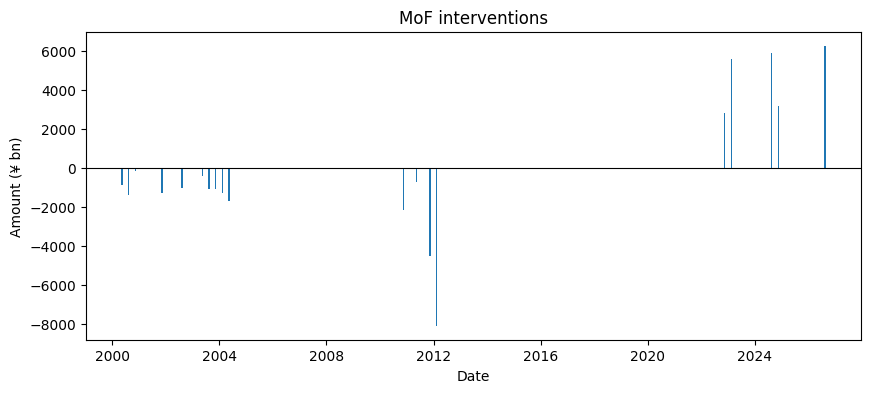
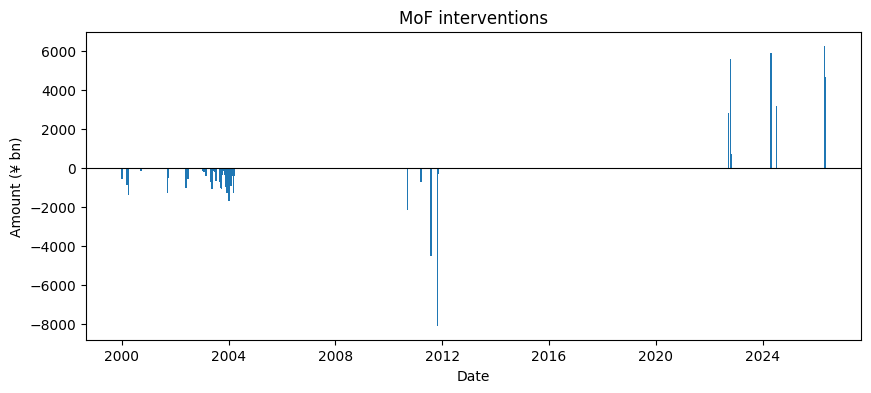
fixed mof graph x-axis from 'release_date' to index date

diff --git a/src/data/mof.py b/src/data/mof.py
@@ -57,6 +57,11 @@ def parse_mof(content):
         dtype=str,
     )
 
+    # The published CSV may contain trailing commas, which pandas reads as
+    # extra all-empty columns. Ignore those without masking real schema changes.
+    while raw.shape[1] > 9 and raw.iloc[:, -1].isna().all():
+        raw = raw.iloc[:, :-1]
+
     # validate the file before using it: fail loudly if MoF changes the format
     if raw.shape[1] != 9:
         raise ValueError(f"MoF file has {raw.shape[1]} columns, expected 9")

diff --git a/tests/test_mof.py b/tests/test_mof.py
@@ -50,6 +50,12 @@ def test_parse_rejects_wrong_totals():
         parse_mof(bad)
 
 
+def test_parse_ignores_trailing_empty_columns():
+    padded = b"\n".join(line + b",,,,,," for line in SAMPLE.splitlines())
+    df = parse_mof(padded)
+    assert list(df.index) == [pd.Timestamp("1991-05-13"), pd.Timestamp("2004-01-09")]
+
+
 def test_parse_rejects_other_files():
     # check that the parser rejects a non-MoF file (e.g. an HTML error page)
     with pytest.raises(ValueError):

diff --git a/src/data_description.py b/src/data_description.py
@@ -34,7 +34,7 @@ for name, dataframe in dataframes.items():
 #MOF bar chart
 mof = dataframes["mof"]
 fig, ax = plt.subplots(figsize=(10, 4))
-ax.bar(mof["release_date"], mof["amount_bn_jpy"], width=20) 
+ax.bar(mof.index, mof["amount_bn_jpy"], width=20) 
 ax.axhline(0, color="black", linewidth=0.8)
 ax.set_title("MoF interventions")
 ax.set_xlabel("Date")
